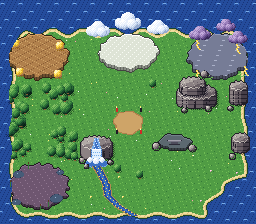
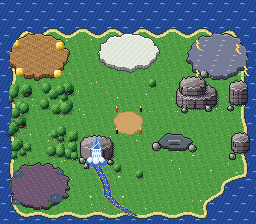
Mapa dos caminhos animado: mar, rio e cachoeira em 4 quadros, nuvens andando e raios de Iansã
Claude-Session: https://claude.ai/code/session_01YNJz6pAgFVkCK3E9s9URPQ

diff --git a/README.md b/README.md
@@ -71,7 +71,8 @@ Esta versão tem o **Prólogo** completo, em duas partes:
 - Na primeira vez, os caminhos se abrem em ondas a partir da encruzilhada. Adé anda de ponto em ponto com as
   setas (as setinhas piscando mostram para onde dá para ir); a faixa de cima mostra o nome, a saudação e o campo.
 - Apertando E num campo: por enquanto aparece "Em breve!" — é aqui que as próximas fases vão se ligar.
-- A arte da ilha vem do `gerar_mapa_mundo.py` (`arte/mundo_0.png` e `mundo_1.png`, a água mexe entre os dois).
+- A arte da ilha vem do `gerar_mapa_mundo.py` (`arte/mundo_0.png` a `mundo_3.png`: o mar, o rio e a cachoeira
+  mexem entre os quatro quadros; as nuvens são `mundo_nuvem*.png` e `mundo_tempestade.png`, que andam devagar e piscam com raios).
   As posições dos pontos e os caminhos ficam em `NOS` e `ARESTAS`, no topo do script.
 - Os mapas ficam em `fases/enc_trilha.txt`, `fases/enc_mata.txt` e `fases/enc_orita.txt` (+ `_objetos`).
   Letras novas dos objetos: `@` pedra que se empurra, `&` ponto riscado, `!` cancela, `$` lamparina,
